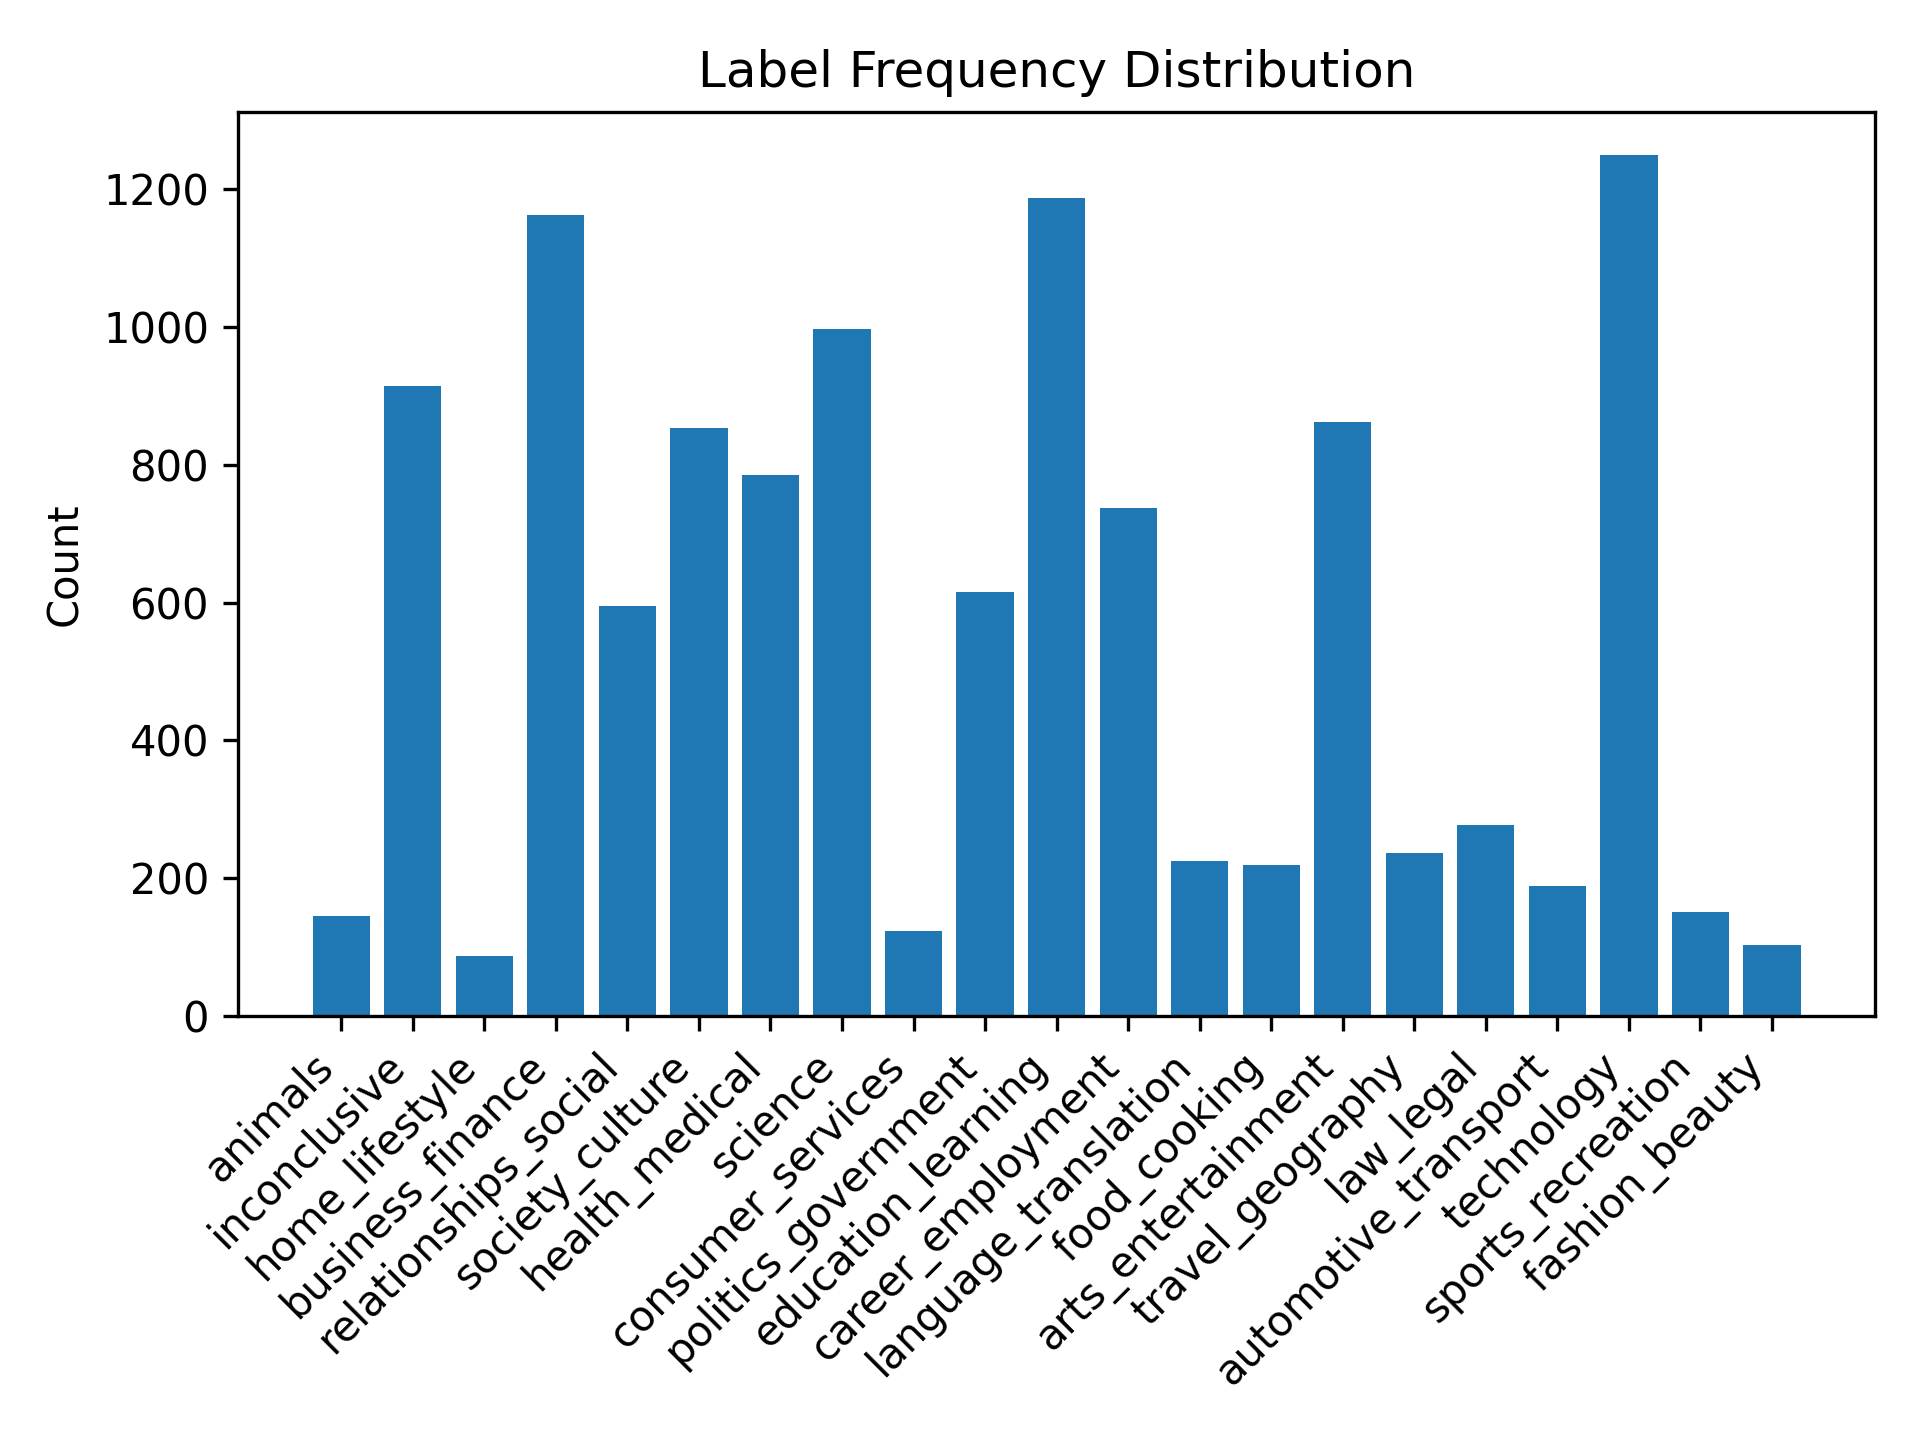
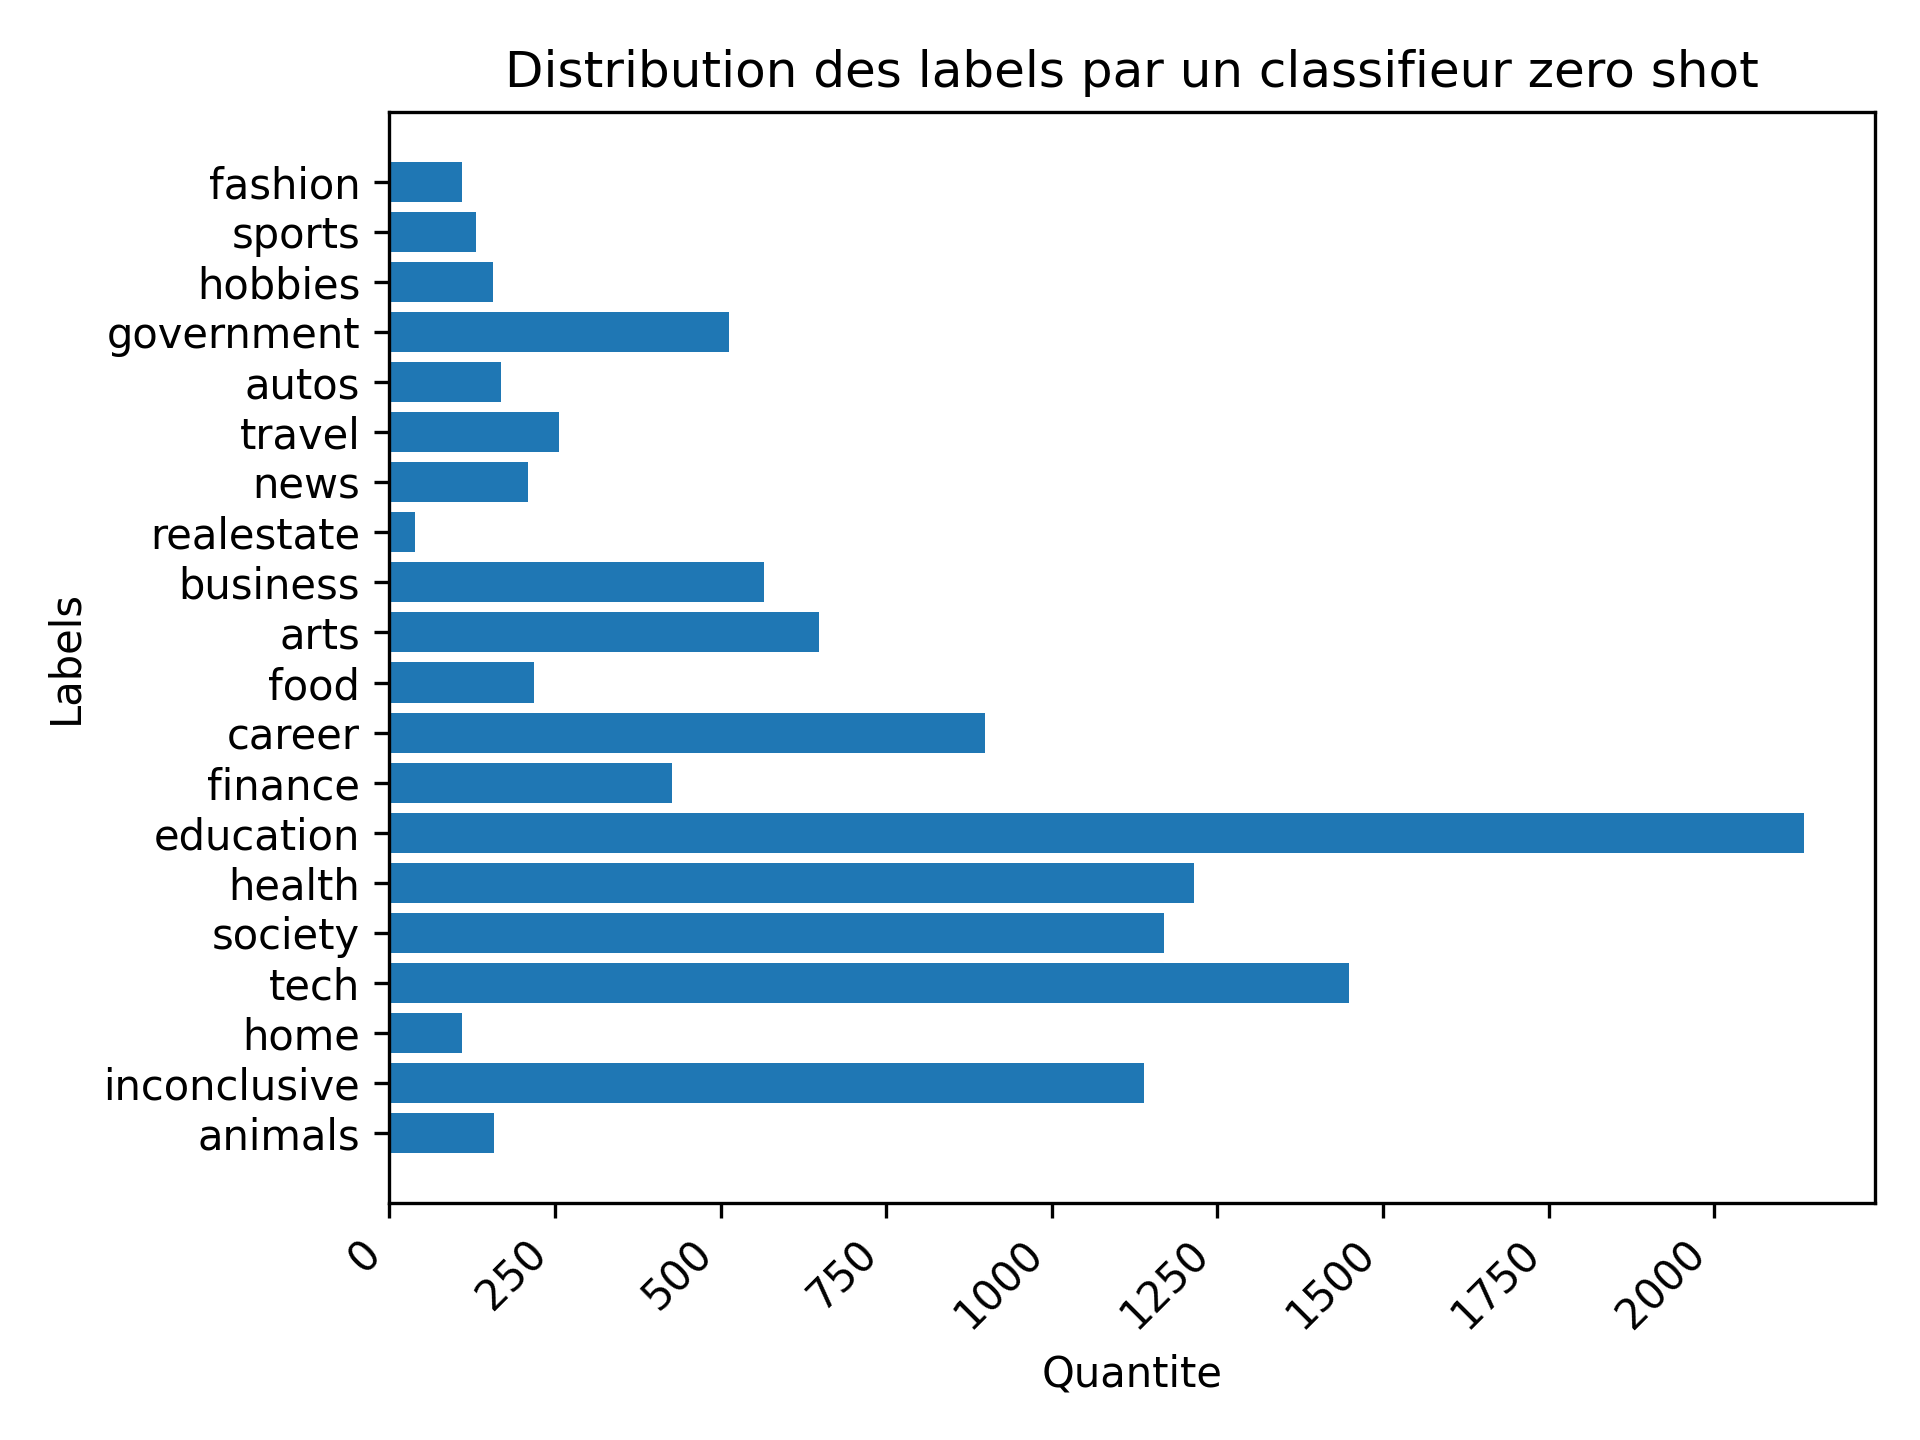
Maj avec les labels du classifieur local

diff --git a/classifiers/zero-shot-classifier/classify.py b/classifiers/zero-shot-classifier/classify.py
@@ -4,8 +4,29 @@ from collections import Counter
 from pathlib import Path
 from openai import OpenAI
 
-DEFAULT_DATASET_FILE = "dataset-small.json"
-LABELS_FILE = "labels.json"
+DEFAULT_DATASET_FILE = "dataset-standard.json"
+LABEL_LIST = [
+    'inconclusive',
+    'animals',
+    'arts',
+    'autos',
+    'business',
+    'career',
+    'education',
+    'fashion',
+    'finance',
+    'food',
+    'government',
+    'health',
+    'hobbies',
+    'home',
+    'news',
+    'realestate',
+    'society',
+    'sports',
+    'tech',
+    'travel'
+]
 DEFAULT_OUTPUT_FILE = "label_counts.json"
 
 SYSTEM_PROMPT = """
@@ -20,11 +41,10 @@ Return ONLY the label name.
 
 
 def load_labels():
-    return json.loads(Path(LABELS_FILE).read_text(encoding="utf-8"))["labels"]
-
+    return LABEL_LIST
 
 def build_label_text(labels):
-    return "\n".join(f"- {k}: {v}" for k, v in labels.items())
+    return "\n".join(f"- {label}" for label in labels)
 
 
 def classify_query(client, query, label_text, valid_labels):
@@ -62,7 +82,7 @@ def classify_dataset(dataset_path, output_file=DEFAULT_OUTPUT_FILE):
     labels = load_labels()
 
     label_text = build_label_text(labels)
-    valid_labels = set(labels.keys())
+    valid_labels = set(labels)
 
     prompts = dataset["negative"]["prompts"]
 

diff --git a/classifiers/zero-shot-classifier/plot_frequencies.py b/classifiers/zero-shot-classifier/plot_frequencies.py
@@ -13,10 +13,11 @@ def main():
     values = list(counts.values())
 
     plt.figure()
-    plt.bar(labels, values)
+    plt.barh(labels, values)
     plt.xticks(rotation=45, ha="right")
-    plt.ylabel("Count")
-    plt.title("Label Frequency Distribution")
+    plt.xlabel("Quantite")
+    plt.ylabel("Labels")
+    plt.title("Distribution des labels par un classifieur zero shot")
     plt.tight_layout()
 
     plt.savefig(OUTPUT_IMAGE, dpi=300)
